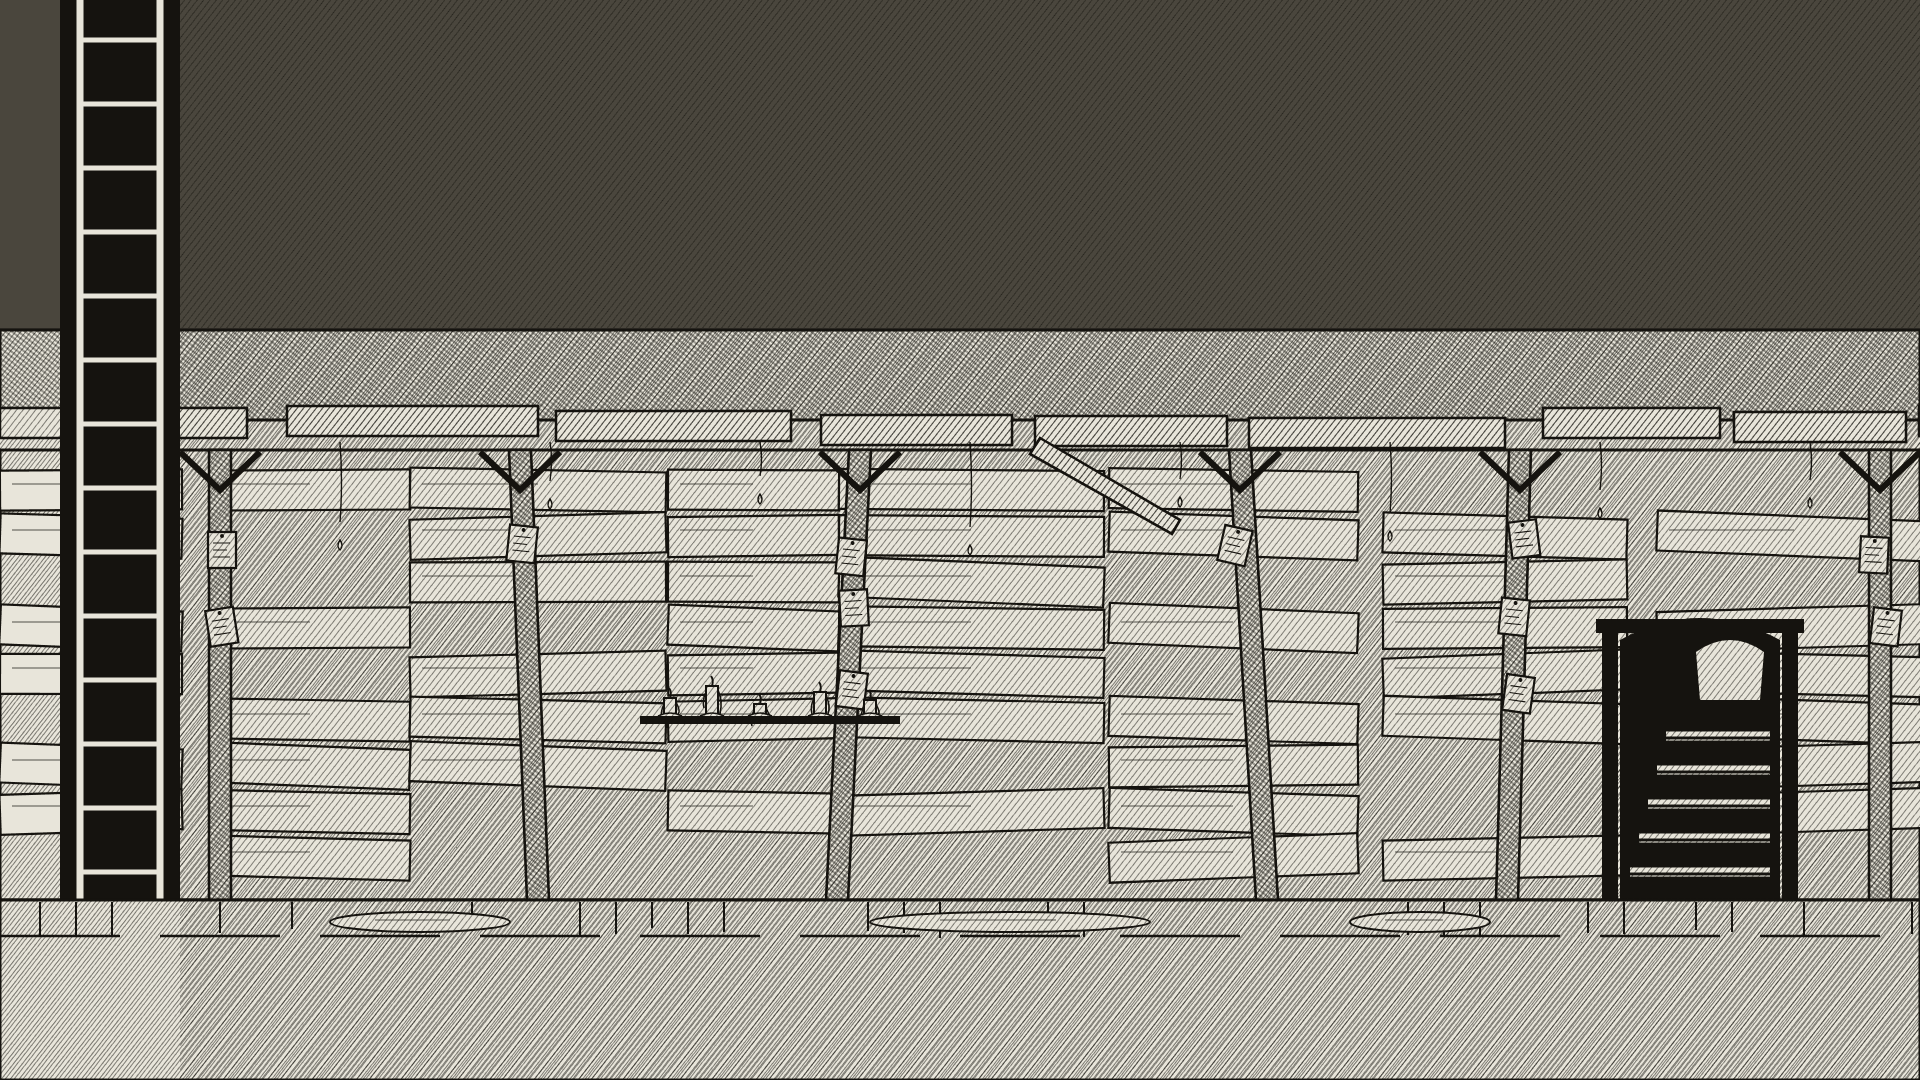
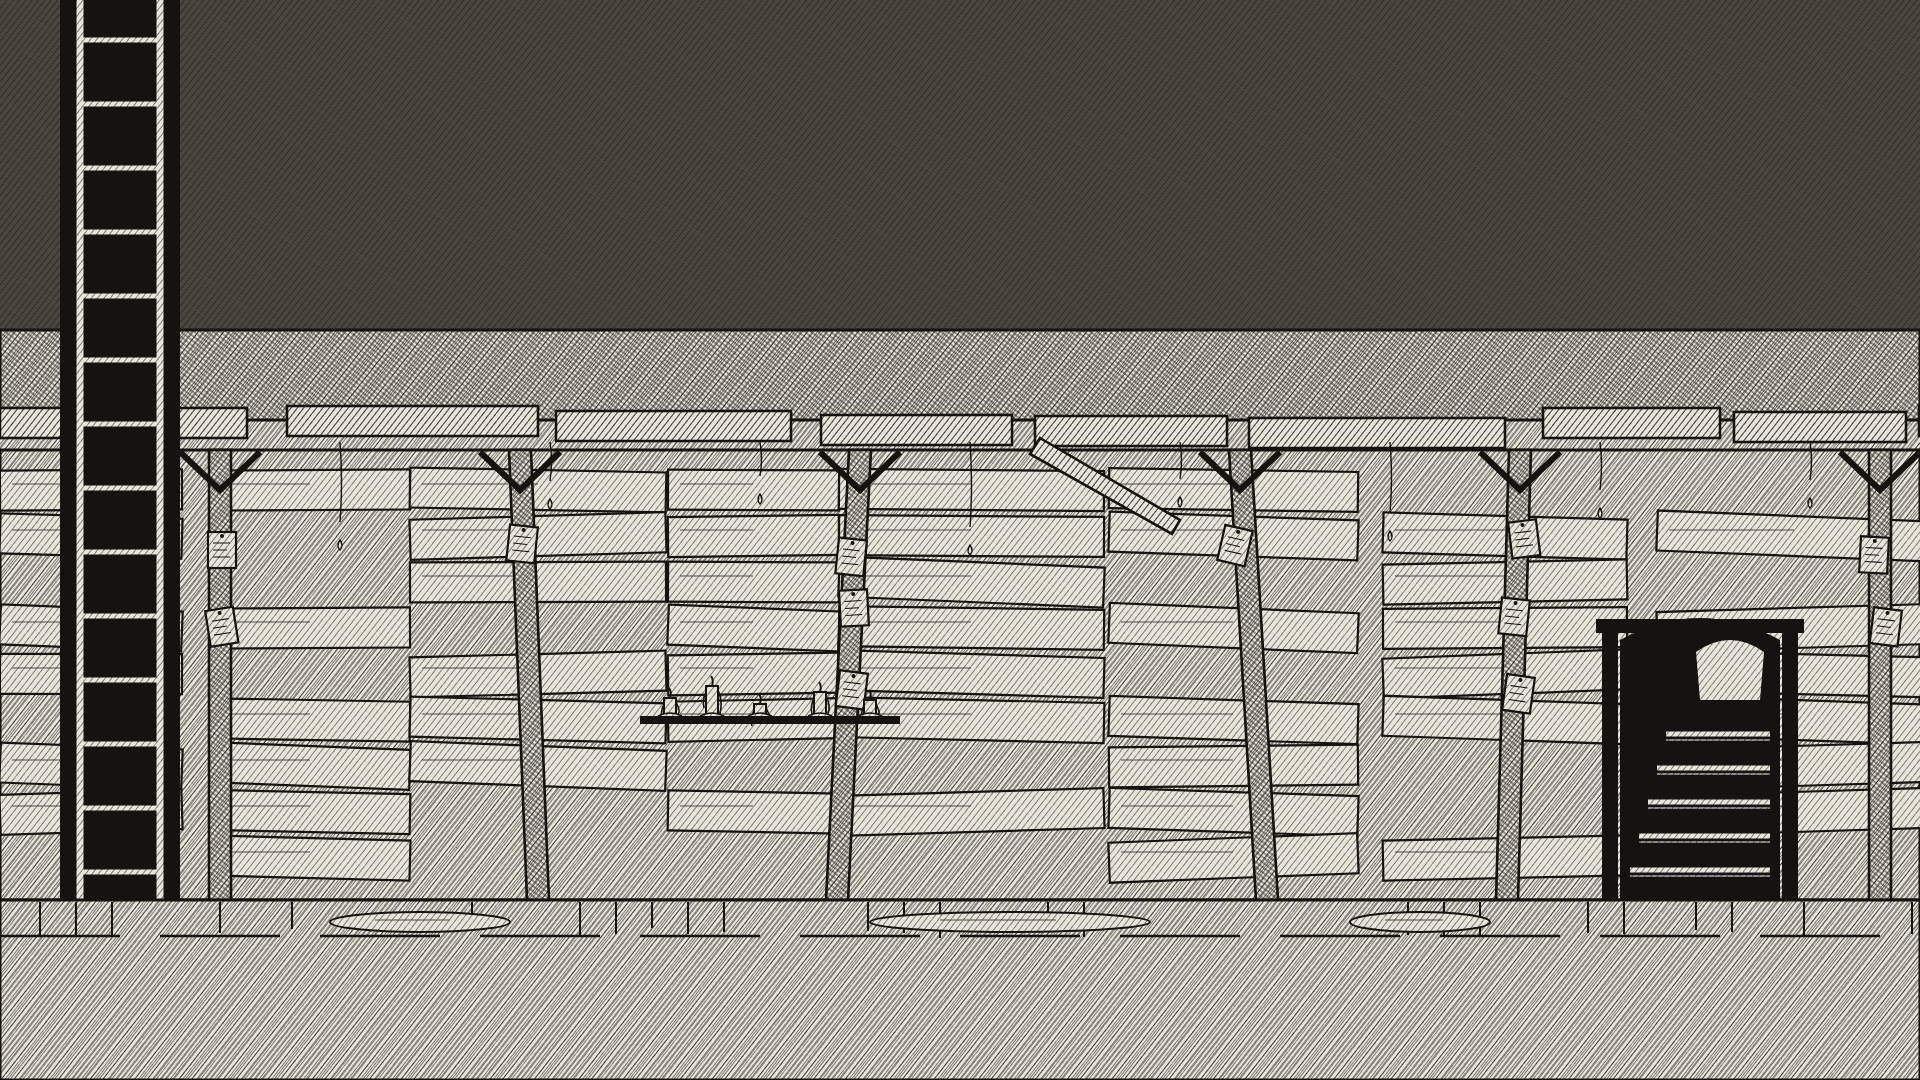
Étape 2 : ceintures de barbelés fermées dessinées (plus de barre rouge)
Calque fx_ceinture-fermee (piquet en X, trois brins, concertina) posé sur
CeintureUne et CeintureDeux à la place du rect de maquette que l'écran gravure
rendait en rouge exact (#96). Il part avec le Verrou : reste la chicane
ouverte déjà peinte. Vieux boyau : la hachure couvre aussi la bande de gauche.

Claude-Session: https://claude.ai/code/session_011WbKxBfoJbcyebqrVqkEA5

Changed region(s): [[0.0, 0.3056, 0.0938, 1.0]]

diff --git a/tools/gen_decors_e2_lieux.py b/tools/gen_decors_e2_lieux.py
@@ -17,7 +17,7 @@ from __future__ import annotations
 from gen_decors_e1_lieux import (BAS_PLAFOND, DEFS, ENCRE, H, LAVIS, MINE, PAPIER, PLAFOND, SOL, ST,
                                  escalier, etai)
 from gen_decors_e1_surface import rnd
-from gen_decors_e2_surface import DST
+from gen_decors_e2_surface import DST, fil
 
 W = 1920
 
@@ -99,12 +99,34 @@ def boyau_detour() -> str:
     return "".join(out)
 
 
+def ceinture_fermee() -> str:
+    """Calque du Verrou de chaque ceinture de barbelés (CeintureUne, CeintureDeux) : la chicane
+    peinte dans le plan 3 est barrée par un piquet en X, trois brins tendus et un rouleau de
+    concertina. Calque de 180 x 320 centré sur le Verrou (y 750) : le sol (y 900) est à 310, les
+    piquets peints de part et d'autre (xc ± 70) à x 20 et 160. Il part avec le Verrou une fois la
+    ceinture passée (e2_barbeles) : reste la chicane ouverte et son fil arraché, déjà peints."""
+    w, h = 180, 320
+    sol = 310
+    out = [f'<path d="M68 {sol} L108 {sol - 176} M112 {sol} L72 {sol - 176}" stroke="{ENCRE}" stroke-width="7"/>']
+    for k, dy in enumerate((60, 110, 155)):
+        out.append(fil(20, 90, sol - dy, 7 + k))
+        out.append(fil(90, 160, sol - dy, 17 + k))
+    # rouleau de concertina posé au pied, en travers de la chicane
+    for k in range(7):
+        cx = 30 + k * 20
+        out.append(f'<ellipse cx="{cx}" cy="{sol - 26}" rx="16" ry="24" fill="none" stroke="{ENCRE}" stroke-width="1.6"/>')
+    out.append(f'<path d="M14 {sol - 26} H166" stroke="{ENCRE}" stroke-width="1.2" stroke-dasharray="5 6"/>')
+    return f'<svg xmlns="http://www.w3.org/2000/svg" width="{w}" height="{h}" viewBox="0 0 {w} {h}">{"".join(out)}</svg>\n'
+
+
 def main() -> None:
     DST.mkdir(parents=True, exist_ok=True)
     svg = (f'<svg xmlns="http://www.w3.org/2000/svg" width="{W}" height="{H}" viewBox="0 0 {W} {H}">'
            f'{DEFS}{boyau_detour()}</svg>\n')
     (DST / "env_e2_plan3_boyau-detour_01.svg").write_text(svg, encoding="utf-8")
-    print("1 tuile dans art/src/env/e2/")
+    fx = DST.parent.parent / "fx"
+    (fx / "fx_ceinture-fermee.svg").write_text(ceinture_fermee(), encoding="utf-8")
+    print("1 tuile dans art/src/env/e2/ + fx_ceinture-fermee")
 
 
 if __name__ == "__main__":
